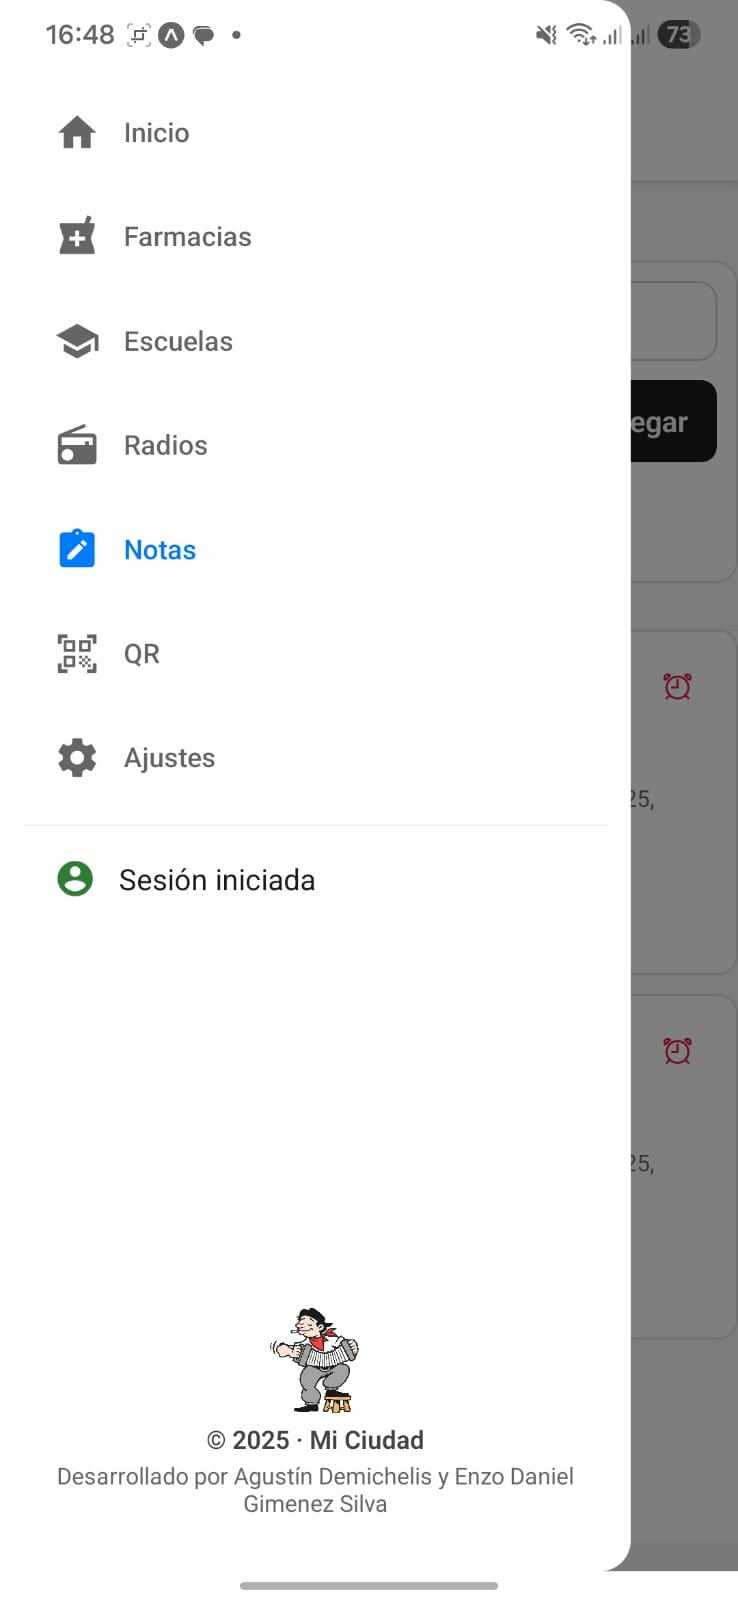
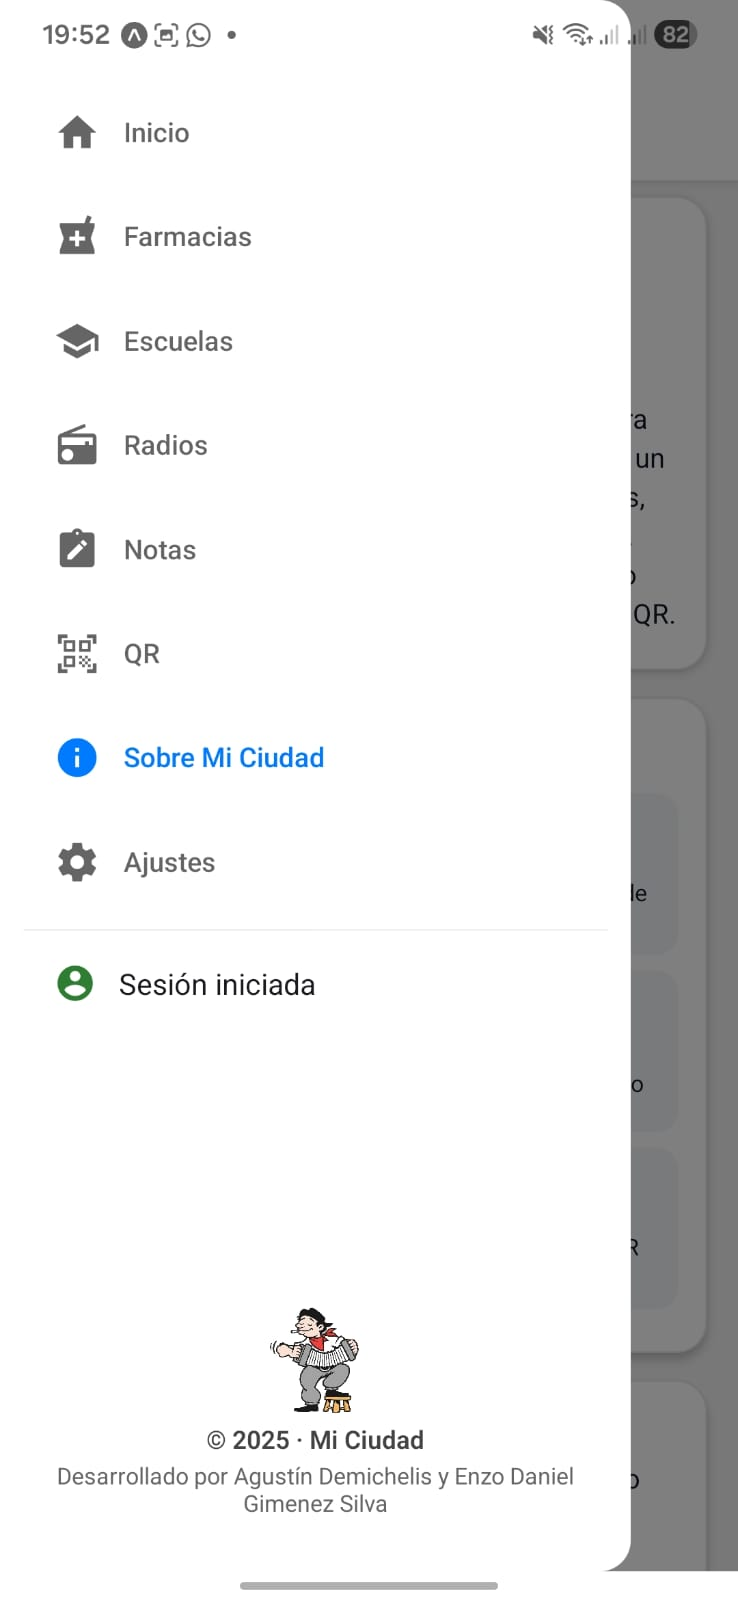
README listo

diff --git a/README.md b/README.md
@@ -21,13 +21,16 @@ Está pensada para los habitantes de **Federal (Entre Ríos, Argentina)** y ofre
 
 ## 🧩 Descripción general de la app
 
-- Información actualizada de **farmacias** y **escuelas** de la ciudad, con mapa, filtros y datos de contacto.
-- Sección de **radios locales** con reproducción en vivo y **reproductor flotante** que acompaña al usuario en toda la app.
-- Módulo de **notas personales** con posibilidad de agregar imágenes y programar **recordatorios con notificaciones locales**.
-- **Teléfonos útiles** organizados por categoría para llamar con un solo toque.
-- **Lector QR** que permite escanear códigos, abrir enlaces o guardar el QR como nota.
-- Sistema de **autenticación de usuarios** con registro, inicio de sesión, recuperación y cambio de contraseña.
-- Pantalla de **ajustes** para gestionar preferencias y la cuenta del usuario.
+La aplicación integra funcionalidades informativas y herramientas personales orientadas a los habitantes de Federal:
+
+- Acceso a **información actualizada de farmacias y escuelas**, con mapa interactivo, datos de contacto y filtros por categoría.
+- Reproducción de **radios locales en vivo**, acompañada por un **reproductor flotante** activo en toda la app.
+- Gestión de **notas personales**, con soporte para imágenes y programación de **recordatorios mediante notificaciones locales**.
+- Listado de **teléfonos útiles** organizados por categoría, con opción de llamada directa.
+- **Lector de códigos QR**, con apertura de enlaces o guardado del contenido como nota.
+- Sistema de **autenticación de usuarios**, con registro, inicio de sesión, recuperación y cambio de contraseña.
+- Pantalla informativa **“Sobre Mi Ciudad”**, que detalla el propósito de la app y su contexto académico.
+- Sección de **Ajustes**, destinada a la gestión de cuenta y preferencias básicas.
 
 ---
 
@@ -83,9 +86,11 @@ Pantalla principal de la app. Muestra:
   - Notas
   - QR
   - Ajustes
+- Botón de **Sobre Mi Ciudad**.
 - Botón destacado de **Teléfonos útiles**.
 
 🖼 ![Screenshots del inicio](./assets/screenshots/inicio.png)
+
 ---
 
 ### 📞 Teléfonos útiles
@@ -114,6 +119,7 @@ Menú de navegación con acceso a todas las secciones:
 - Radios
 - Notas
 - QR
+-Sobre Mi Ciudad
 - Ajustes
 
 Al final del menú se muestra la opción **“Iniciar sesión / Registrarme”** si el usuario no está autenticado, y el crédito con el copyright del proyecto.
@@ -271,6 +277,20 @@ Herramienta para trabajar con códigos QR:
 🖼 ![Screenshots de QR](./assets/screenshots/qr4.png)
 ---
 
+### 🏙 Sobre Mi Ciudad
+
+Pantalla informativa sobre la aplicación:
+
+- Explica el **propósito general de la app**, destacando cómo facilita el acceso rápido a información local y herramientas útiles para los habitantes de Federal.
+- Brinda datos sobre los **autores del proyecto** y la **institución académica (UNER)**, indicando que fue desarrollada como trabajo final para la materia *Desarrollo de Aplicaciones Móviles*.
+- Describe brevemente las principales **funcionalidades disponibles** y cómo contribuyen a mejorar la experiencia del usuario.
+- Incluye un **botón para acceder al video promocional** de la aplicación.
+
+🖼 ![Screenshots de Sobre Mi Ciudad](./assets/screenshots/sobreMiCiudad.png)  
+🖼 ![Screenshots de Sobre Mi Ciudad](./assets/screenshots/sobreMiCiudad2.png)
+
+
+
 ### ⚙ Ajustes
 
 Pantalla de configuración de la app:
@@ -280,9 +300,9 @@ Pantalla de configuración de la app:
 - Botón para **cambiar contraseña**, que inicia el flujo de actualización a través de Supabase.
 - Gestión de permisos y preferencias básicas.
 
-🖼 `./assets/screenshots/ajustes.png`  
-🖼 `./assets/screenshots/ajustes-cambiar-contraseña.png`
-
+🖼 ![Screenshots de Ajustes](./assets/screenshots/ajustes.png)
+🖼 ![Screenshots de cambiar contraseña](./assets/screenshots/cambioClave.png)
+🖼 ![Screenshots de cambiar contraseña](./assets/screenshots/cambioClave2.png)
 ---
 
 ## 🌟 Funcionalidades extra destacadas
